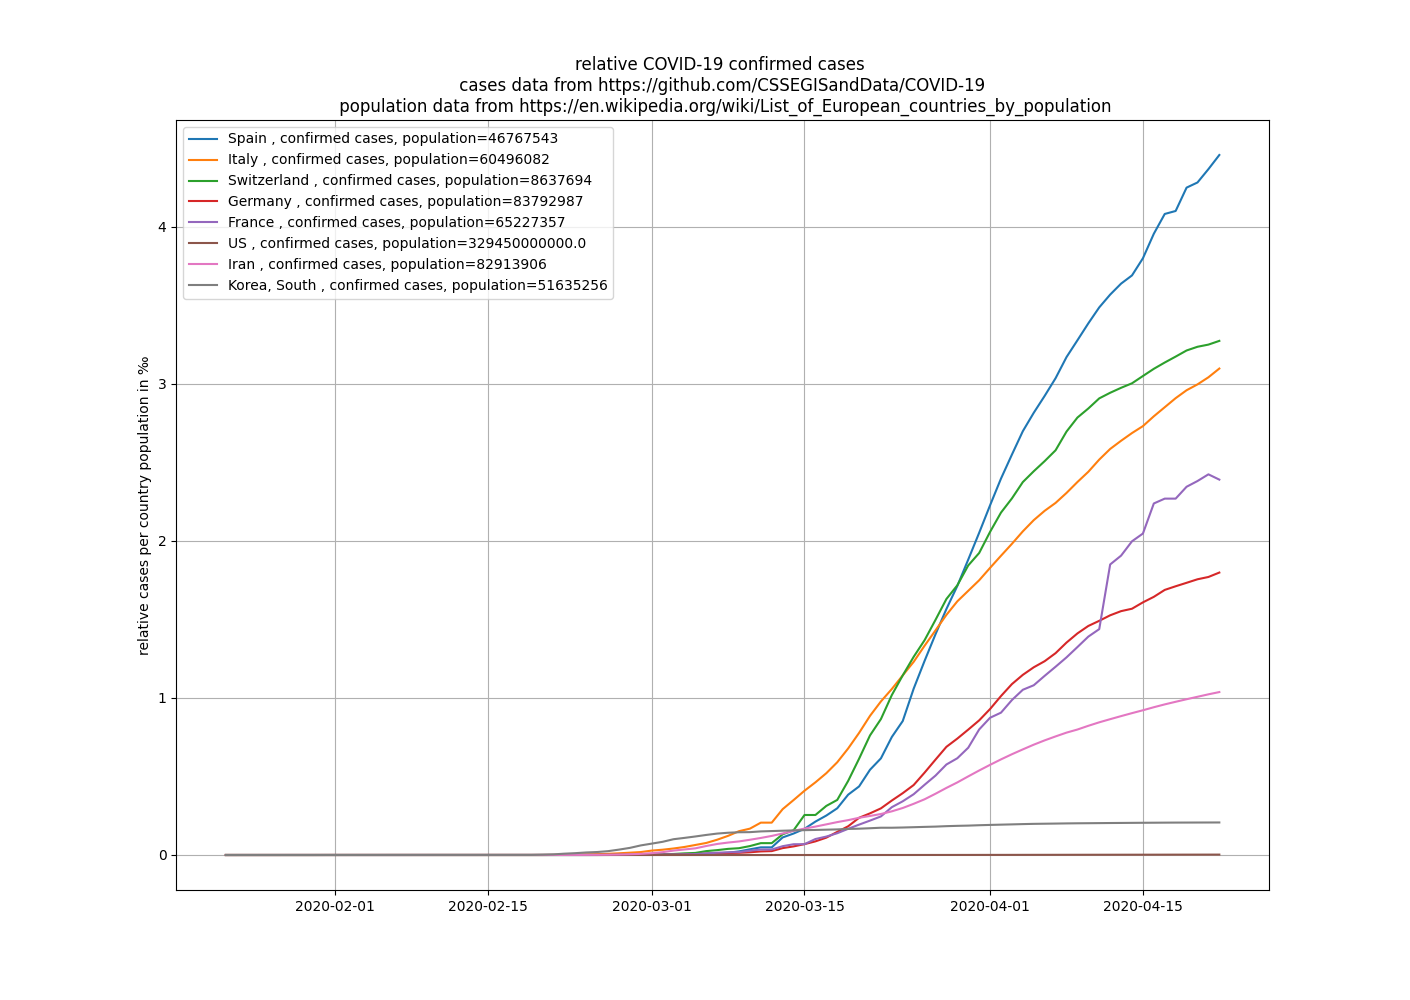
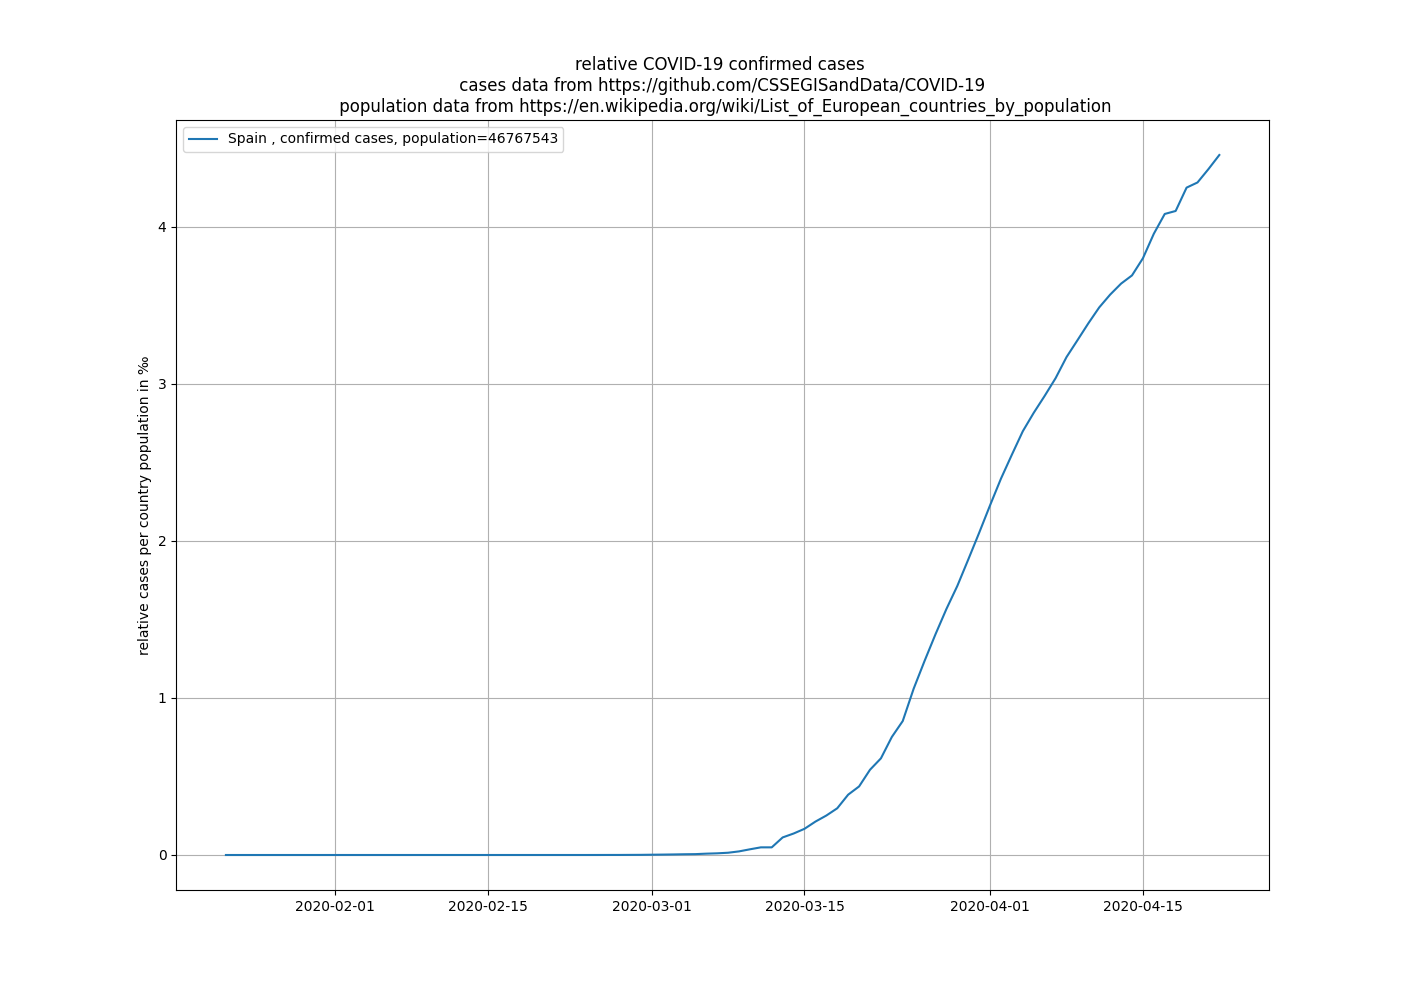
spain only

diff --git a/simple_visualization.py b/simple_visualization.py
@@ -43,9 +43,9 @@ class Covid(object):
 
 
         country_list = [spain, italy, switzerland, norway, denmark, sweden, austria, uk, germany, france, netherlands, belgium, us, iran, south_korea]
-        
-        #country_list = [spain, italy, switzerland, germany, france, us, iran, south_korea]
-        
+        country_list = [spain, italy, switzerland, germany, france, us, iran, south_korea]
+        country_list = [spain]
+
         filename = 'relative_cases.png'
         title = "relative COVID-19 confirmed cases \n cases data from https://github.com/CSSEGISandData/COVID-19 \n population data from https://en.wikipedia.org/wiki/List_of_European_countries_by_population"
         self.plot_graph_relative(country_list, title, filename)
